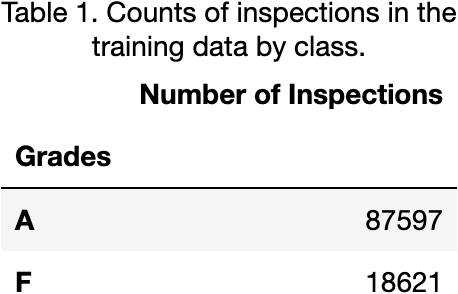
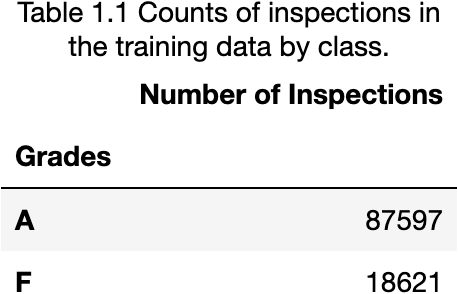
Add test function docstrings

Changed region(s): [[0.0, 0.0, 1.0, 0.0918], [0.1528, 0.1224, 0.8559, 0.2143]]

diff --git a/src/nyc_rest_eda.py b/src/nyc_rest_eda.py
@@ -93,7 +93,7 @@ def main(train_set, visual_dir):
 
     # Creates a table of the counts of Grade A and F in the training set
     class_table = train_df['grade'].value_counts().rename_axis('Grades').to_frame('Number of Inspections')
-    class_table = class_table.style.set_caption('Table 1. Counts of inspections in the training data by class.')
+    class_table = class_table.style.set_caption('Table 1.1 Counts of inspections in the training data by class.')
     dfi.export(class_table, visual_dir + "/class_table.png")
 
     # Creates boxplot of the distribution of scores by grade
@@ -160,7 +160,7 @@ def main(train_set, visual_dir):
     top_10_cuisine_df = pd.DataFrame(train_df['cuisine_description'].value_counts()[:10])
     top_10_cuisine_df.index.name = 'Cuisine Description'
     top_10_cuisine_df.columns = ['Count of Records']
-    top_10_cuisine_df = top_10_cuisine_df.style.set_caption('Table 2. Number of inspections performed for the top 10 most common cuisine types.')
+    top_10_cuisine_df = top_10_cuisine_df.style.set_caption('Table 1.2. Number of inspections performed for the top 10 most common cuisine types.')
     dfi.export(top_10_cuisine_df, visual_dir + "/top_cuisines.png")
 
     # Creates a bar plot of the number of inspections categorized under each violation code,
@@ -193,21 +193,39 @@ def main(train_set, visual_dir):
 
 ### TESTS
 def class_table_exists(file_path):
+    """
+    Checks that the class table has been saved
+    """
     assert os.path.isfile(file_path + "/class_table.png"), "Could not find the class table in the visualizations folder." 
 
 def score_boxplot_exists(file_path):
+    """
+    Checks that the score boxplot has been saved
+    """
     assert os.path.isfile(file_path + "/score_boxplot.png"), "Could not find the score boxplot in the visualizations folder." 
 
 def flag_plot_exists(file_path):
+    """
+    Checks that the critical flag chart has been saved
+    """
     assert os.path.isfile(file_path + "/critical_flag_stacked.png"), "Could not find the critical flag chart in the visualizations folder." 
 
 def borough_bar_plot_exists(file_path):
+    """
+    Checks that the borough bar plot has been saved
+    """
     assert os.path.isfile(file_path + "/borough_bars.png"), "Could not find the borough bar plot in the visualizations folder." 
 
 def cuisine_table_exists(file_path):
+    """
+    Checks that the cuisine table has been saved
+    """
     assert os.path.isfile(file_path + "/top_cuisines.png"), "Could not find the top 10 cuisine table in the visualizations folder." 
 
 def violation_plot_exists(file_path):
+    """
+    Checks that the violation code plot has been saved
+    """
     assert os.path.isfile(file_path + '/violation_code_bars.png'), "Could not find the violation codes chart in the visualizations folder." 
 
 # Call main
